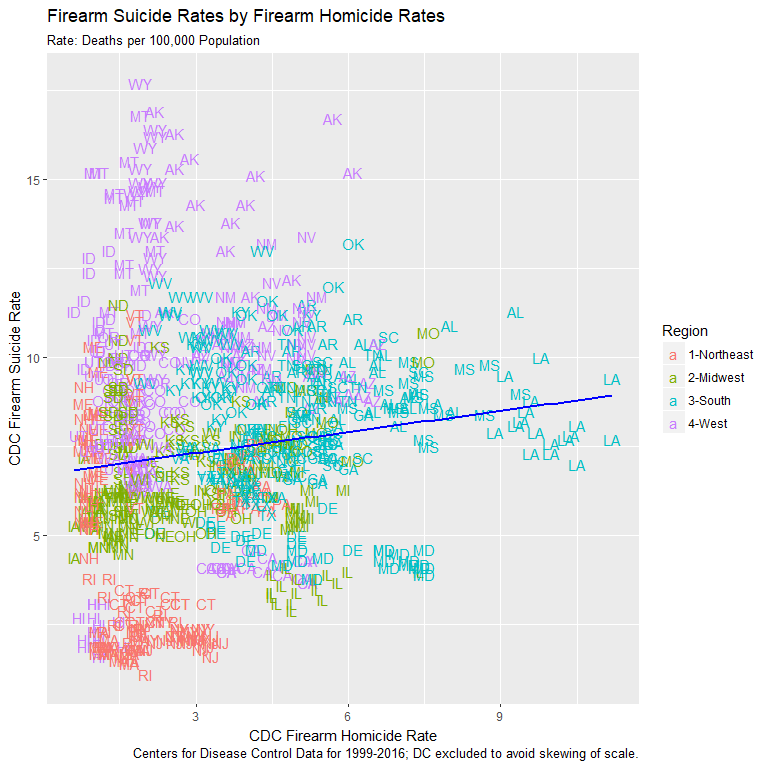
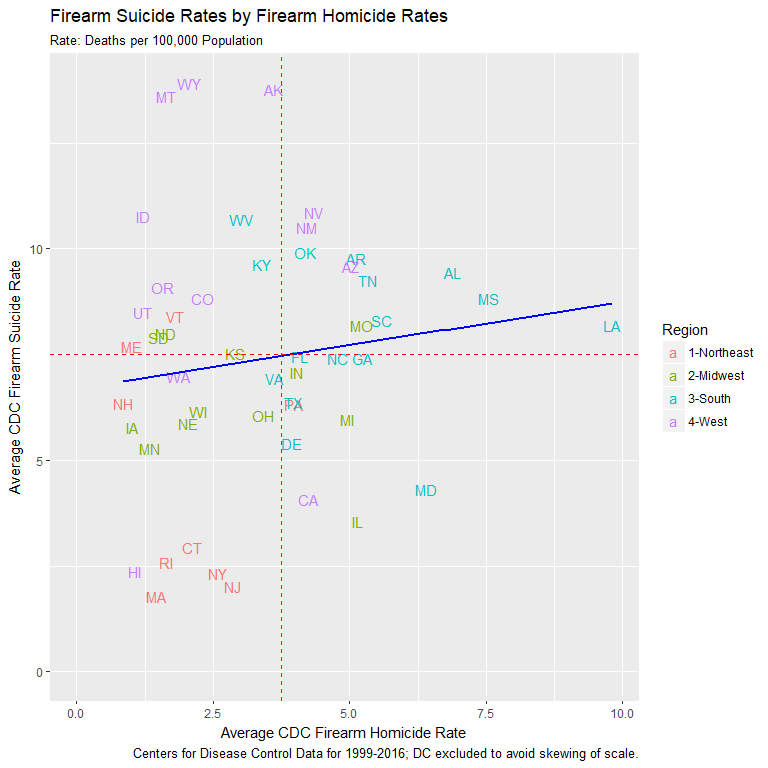
Changes to plots per mentor feedback

diff --git a/04_Stat_Analysis_Summary.md b/04_Stat_Analysis_Summary.md
@@ -68,28 +68,33 @@ gun_deaths_df %>%
   left_join(regions_df, by = "state") %>%
   filter(usps_st != "DC") %>%
   ungroup(state) %>%
-  summarize(N = n(), r2 = cor(sui_rate, hom_rate)^2)
+  summarize(N = n(), cor = cor(sui_rate, hom_rate))
 ```
 
     ## # A tibble: 1 x 2
-    ##       N     r2
-    ##   <int>  <dbl>
-    ## 1   900 0.0168
+    ##       N   cor
+    ##   <int> <dbl>
+    ## 1   900 0.130
 
-##### At r2 of 0.0168, close to zero relationship between homicide and suicide rates.
+##### Correlation of 0.13, minimal relationship between homicide and suicide rates.
 
-#### State level Suicide Rate vs Homicide Rate colored by Region and best-fit regression line
+#### State level Suicide Rate vs Homicide Rate
 
 ``` r
 gun_deaths_df %>%
   left_join(regions_df, by = "state") %>%
   filter(usps_st != "DC") %>%
+  group_by(region, usps_st) %>%
+  summarise(hom_rate = mean(hom_rate), sui_rate = mean(sui_rate)) %>%
   ggplot(aes(x = hom_rate, y = sui_rate, color = region, label = usps_st)) +
   geom_text() +
   stat_smooth(method = "lm", se = FALSE, color = "blue") +
+  expand_limits(y = 0, x = 0) +
+  geom_vline(linetype = 2, color = "red", xintercept = 3.75) +
+  geom_hline(linetype = 2, color = "red", yintercept = 7.50) +
   labs(color = "Region") +
-  ylab("CDC Firearm Suicide Rate") +
-  xlab("CDC Firearm Homicide Rate") +
+  ylab("Average CDC Firearm Suicide Rate") +
+  xlab("Average CDC Firearm Homicide Rate") +
   labs(title = "Firearm Suicide Rates by Firearm Homicide Rates", 
        subtitle = "Rate: Deaths per 100,000 Population") +
   labs(caption = "Centers for Disease Control Data for 1999-2016; DC excluded to avoid skewing of scale.") +
@@ -98,7 +103,7 @@ gun_deaths_df %>%
 
 ![](04_Stat_Analysis_Summary_files/figure-markdown_github/hom_vs_sui_scatter-1.png)
 
-##### Plot confirms absence of linear relation and reveals highest homicide rates in the South (LA and MS), highest suicide rates in the West (WY, MT and AK) and large clusters of low rates for both in the Northeast (CT, RI, NY and NJ).
+##### Plot confirms lack of relation and reveals highest homicide rates in the South (LA, MS and AL), highest suicide rates in the West (WY, MT and AK) and large clusters of low rates for both in the Northeast (MA, CT, RI, NY and NJ).
 
 #### State level "Suicide Rate - Homicide Rate" by Region
 
@@ -332,7 +337,7 @@ gun_own_2013_df %>%
 
 ### Gun Ownership Rates vs CDC Suicide Rates
 
-#### Regression Plot FIREARM Suicide Rate (FSR) vs Gun Ownership Rate for 2013
+#### Regression Plot FIREARM Suicide Rate vs Gun Ownership Rate for 2013
 
 ``` r
 gun_deaths_df %>%
@@ -446,7 +451,9 @@ giff_grd_df %>%
   labs(caption = "Giffords Law Center Data for 2014-2016")
 ```
 
-![](04_Stat_Analysis_Summary_files/figure-markdown_github/giff_grd_hist-1.png) \#\#\#\#\# Failing grades clearly dominate the distribution.
+![](04_Stat_Analysis_Summary_files/figure-markdown_github/giff_grd_hist-1.png)
+
+##### Failing grades clearly dominate the distribution.
 
 #### Statistical Summary by Region, Year
 
@@ -695,24 +702,37 @@ law_chg_df %>%
 
 ``` r
 cor_law_fsr_all <- sui_method_df %>%
-  filter(state != "District of Columbia") %>%
   left_join(state_laws_total_df, by = join_key) %>%
-  summarize(N = n(), r2 = cor(gun_rate, lawtotal)^2)
+  left_join(regions_df, by = "state") %>%
+  filter(usps_st != "DC") %>%
+  group_by(state) %>%
+  summarize(lawtotal = mean(lawtotal), gun_rate = mean(gun_rate)) %>%
+  summarize(N = n(), r2 = cor(gun_rate, lawtotal)^2) %>%
+  print()
+```
 
+    ## # A tibble: 1 x 2
+    ##       N    r2
+    ##   <int> <dbl>
+    ## 1    50 0.617
+
+``` r
 sui_method_df %>%
   left_join(state_laws_total_df, by = join_key) %>%
   left_join(regions_df, by = "state") %>%
   filter(usps_st != "DC") %>%
-  ggplot(aes(x = lawtotal, y = gun_rate, color = region)) +
-  geom_point() +
+  group_by(region, usps_st) %>%
+  summarize(lawtotal = mean(lawtotal), gun_rate = mean(gun_rate)) %>%
+  ggplot(aes(x = lawtotal, y = gun_rate, color = region, label = usps_st)) +
+  geom_text() +
   geom_text(data = cor_law_fsr_all, aes(label = paste("r2 = ", round(r2, 3))), 
             x = Inf, y = Inf, hjust = 1.1, vjust = 1.5, size = 5, color = "blue",
             inherit.aes = FALSE) +
   stat_smooth(method = "lm", se = FALSE, color = "blue") +
-  ylab("Annual CDC Firearm Suicide Rate") +
-  xlab("Number of Gun Laws by State") +
+  ylab("Average CDC Firearm Suicide Rate") +
+  xlab("Average Gun Laws by State") +
   labs(color = "Region") +
-  labs(title = "Annual Firearm Suicide Rate by Number of State Gun Laws", 
+  labs(title = "Firearm Suicide Rate by Number of State Gun Laws", 
        subtitle = "Rate: Deaths per 100,000 Population, Number of Laws 1999-2016") +
   labs(caption = "Sources: Boston University School of Public Health, Centers for Disease Control") +
   theme(legend.position = "right")
@@ -724,25 +744,43 @@ sui_method_df %>%
 
 ``` r
 cor_law_fsr_reg <- sui_method_df %>%
-  filter(state != "District of Columbia") %>%
   left_join(state_laws_total_df, by = join_key) %>%
   left_join(regions_df, by = "state") %>%
+  filter(usps_st != "DC") %>%
+  group_by(region, state) %>%
+  summarize(lawtotal = mean(lawtotal), gun_rate = mean(gun_rate)) %>%
   group_by(region) %>%
-  summarize(N = n(), r2 = cor(gun_rate, lawtotal)^2)
+  summarize(N = n(), r2 = cor(gun_rate, lawtotal)^2) %>%
+  print()
+```
 
+    ## # A tibble: 4 x 3
+    ##   region          N    r2
+    ##   <chr>       <int> <dbl>
+    ## 1 1-Northeast     9 0.814
+    ## 2 2-Midwest      12 0.841
+    ## 3 3-South        16 0.484
+    ## 4 4-West         13 0.736
+
+``` r
+# r2 low of 0.484 in South, 0.736 in West, 0.814 in Northeast and 0.841 in Midwest
+
+# Plot by region total laws against firearm suicide rates
 sui_method_df %>%
   filter(state != "District of Columbia") %>%
   left_join(state_laws_total_df, by = join_key) %>%
   left_join(regions_df, by = "state") %>%
-  ggplot(aes(x = lawtotal, y = gun_rate, color = region)) +
-  geom_point() +
+  group_by(region, usps_st) %>%
+  summarize(lawtotal = mean(lawtotal), gun_rate = mean(gun_rate)) %>%
+  ggplot(aes(x = lawtotal, y = gun_rate, color = region, label = usps_st)) +
+  geom_text() +
   facet_wrap(~ region) +
   geom_text(data = cor_law_fsr_reg, aes(label = paste("r2 = ", round(r2, 3))), 
-            x = 100, y = 17.5, hjust = 0.75, vjust = -0.25, size = 3.5, color = "blue",
+            x = 95, y = 13, hjust = 0.75, vjust = -0.25, size = 3.5, color = "blue",
             inherit.aes = FALSE) +
   stat_smooth(method = "lm", se = FALSE) +
-  ylab("Annual CDC Firearm Suicide Rate") +
-  xlab("Number of Gun Laws by State") +
+  ylab("Average CDC Firearm Suicide Rate") +
+  xlab("Average Gun Laws by State") +
   labs(color = "Region") +
   labs(title = "Annual Firearm Suicide Rate by Number of State Gun Laws by Region", 
        subtitle = "Rate: Deaths per 100,000 Population, Number of Laws 1999-2016") +
@@ -813,21 +851,20 @@ sui_method_df %>%
   left_join(regions_df, by = "state") %>%
   left_join(law_chg_df, by = "state") %>%
   filter(law_quant == 1) %>%
-  ggplot(aes(x = lawtotal, y = gun_rate, color = -year)) +
+  ggplot(aes(x = year, y = gun_rate, color = lawtotal)) +
   geom_point() +
-  facet_wrap(~ state) +
-  geom_text(aes(label = paste("Law Change = ", law_chg)), 
-            x = 17, y = 17, hjust = 0.6, vjust = 1, size = 3.5, color = "blue",
-            inherit.aes = TRUE) +
   stat_smooth(method = "lm", se = FALSE) +
+  facet_wrap(~ state) +
+  geom_text(aes(label = paste("Law Change =", law_chg)),
+            x = 2010, y = 17, hjust = 0.5, vjust = 1, size = 3.5, color = "blue", inherit.aes = FALSE) +
   scale_y_continuous(expand = c(0, 0), limits = c(0,18)) +
   ylab("Annual CDC Firearm Suicide Rate") +
-  xlab("Number of Gun Laws by State") +
-  labs(color = "Region") +
-  labs(title = "Firearm Suicide Rates for States that Reduced Gun Laws", 
+  xlab("Year") +
+  labs(color = "Total Laws") +
+  labs(title = "Firearm Suicide Rate Trend: States that Reduced Gun Laws", 
        subtitle = "Rate: Deaths per 100,000 Population, Number of Laws 1999-2016") +
   labs(caption = "Sources: Boston University School of Public Health, Centers for Disease Control") +
-  theme(legend.position = "right")
+  theme(legend.position = "bottom")
 ```
 
 ![](04_Stat_Analysis_Summary_files/figure-markdown_github/reduced_state_plots-1.png)
@@ -843,23 +880,22 @@ sui_method_df %>%
   left_join(regions_df, by = "state") %>%
   left_join(law_chg_df, by = "state") %>%
   filter(law_quant == 4) %>%
-  ggplot(aes(x = lawtotal, y = gun_rate, color = -year)) +
+  ggplot(aes(x = year, y = gun_rate, color = lawtotal)) +
   geom_point() +
-  facet_wrap(~ state) +
-  geom_text(aes(label = paste("Law Change = ", law_chg)), 
-            x = 70, y = 17, hjust = 0.5, vjust = 1, size = 3.5, color = "blue",
-            inherit.aes = TRUE) +
   stat_smooth(method = "lm", se = FALSE) +
+  facet_wrap(~ state) +
+  geom_text(aes(label = paste0("Law Change = +", law_chg)),
+            x = 2010, y = 17, hjust = 0.5, vjust = 1, size = 3.5, color = "blue", inherit.aes = FALSE) +
   scale_y_continuous(expand = c(0, 0), limits = c(0,18)) +
   ylab("Annual CDC Firearm Suicide Rate") +
-  xlab("Number of Gun Laws by State") +
-  labs(color = "Region") +
-  labs(title = "Firearm Suicide Rates for States that Significantly Increased Gun Laws", 
+  xlab("Year") +
+  labs(color = "Total Laws") +
+  labs(title = "Firearm Suicide Rate Trend: States that Significantly Increased Gun Laws", 
        subtitle = "Rate: Deaths per 100,000 Population, Number of Laws 1999-2016") +
   labs(caption = "Sources: Boston University School of Public Health, Centers for Disease Control") +
-  theme(legend.position = "right")
+  theme(legend.position = "bottom")
 ```
 
 ![](04_Stat_Analysis_Summary_files/figure-markdown_github/increased_state_plots-1.png)
 
-##### Two states, Colorado and Delaware, saw sharp suicide increases in spite of added gun laws. A few more expeienced a more modest rise, while others were nearly flat or fell. Again, this is all occurring as overall national suicide rates climbed from 10.5 to 14 per 100,000.
+##### Two states, Colorado and Oregon, saw notable suicide increases in spite of added gun laws. Most others were nearly flat or fell. Again, this is all occurring as overall national suicide rates climbed from 10.5 to 14 per 100,000.
